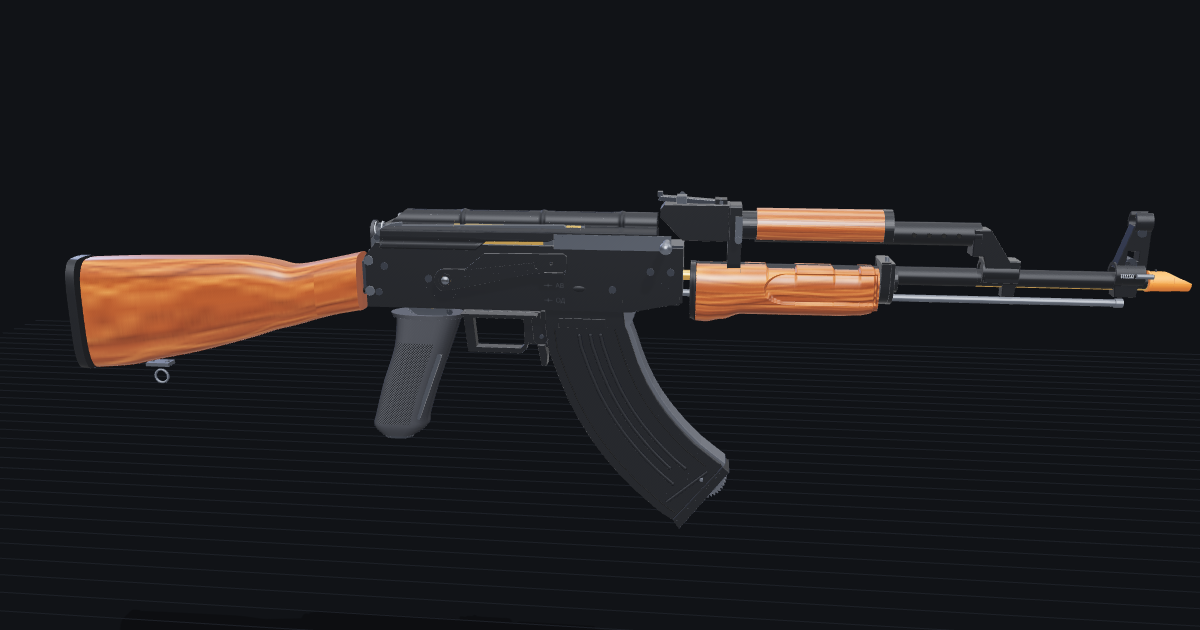
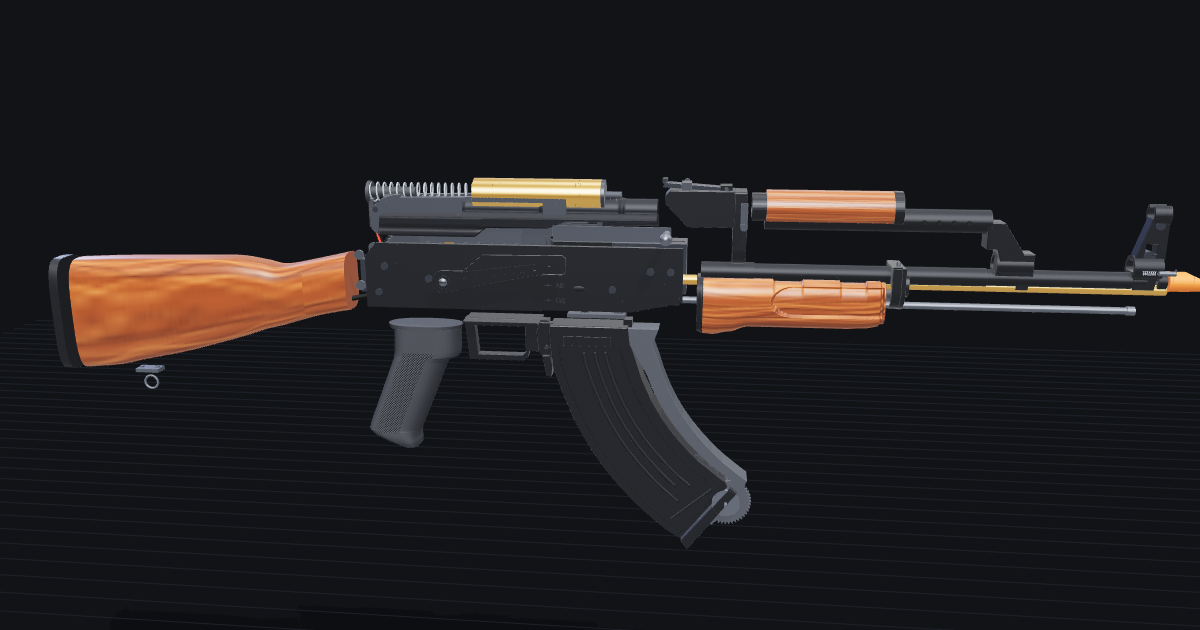
Grip: flared base as on the CYMA grip (RedWolf from-below shot)

diff --git a/cm048m/index.html b/cm048m/index.html
@@ -896,8 +896,8 @@ part('wiring', 'Protect a box of line (wire cover) + gearbox wiring', 'gbx', ['8
 
 // ================= GRIP, STOCK AND POWER =================
 // levels from a row-by-row scan of the side photo's grip edges; the bottom is cut at an angle (front corner lowest)
-const GL = [[147, 720, 790, 30.5], [172, 720.5, 791, 31], [178, 724, 792, 31], [182, 733.5, 792.8, 31], [220, 749.5, 807.8, 31], [255, 764.3, 821.5, 30.8], [262, 767, 821.5, 30.5],
-            [268, 768, 813, 30], [274, 767.5, 799, 28.5], [279, 768.5, 786, 25]].map(([py, f, b, w]) => ({ y: Y(py), xf: X(f), xb: X(b), w: mm(w) }));
+const GL = [[147, 720, 790, 30.5], [172, 720.5, 791, 31], [178, 724, 792, 31], [182, 733.5, 792.8, 31], [220, 749.5, 807.8, 31], [255, 764.3, 821.5, 30.8], [262, 767, 821.5, 31.6],
+            [268, 768, 813, 31.8], [274, 767.5, 799, 30.4], [279, 768.5, 786, 27]].map(([py, f, b, w]) => ({ y: Y(py), xf: X(f), xb: X(b), w: mm(w) }));
 const GRIP_OPT = { n: 3.4, frontTaper: 0.88, step: 2 };
 part('grip', 'Gun grip + grip screw', 'stk', ['13', '14'], [-40, -150, 0],
   'Polymer AKM-pattern motor grip (13). Hollow shell around the motor, about 30mm wide (the real AKM grip is 24 x 40mm in section, 20 degrees from vertical, 106mm long; airsoft motor grips run 30 to 31mm wide to clear the motor). Top flange with rounded ends sits under the receiver; checkered field on the rear half of each side with a smooth front band. Screw 14 holds it; the M3 hex screw in the bottom plate sets motor height.',
